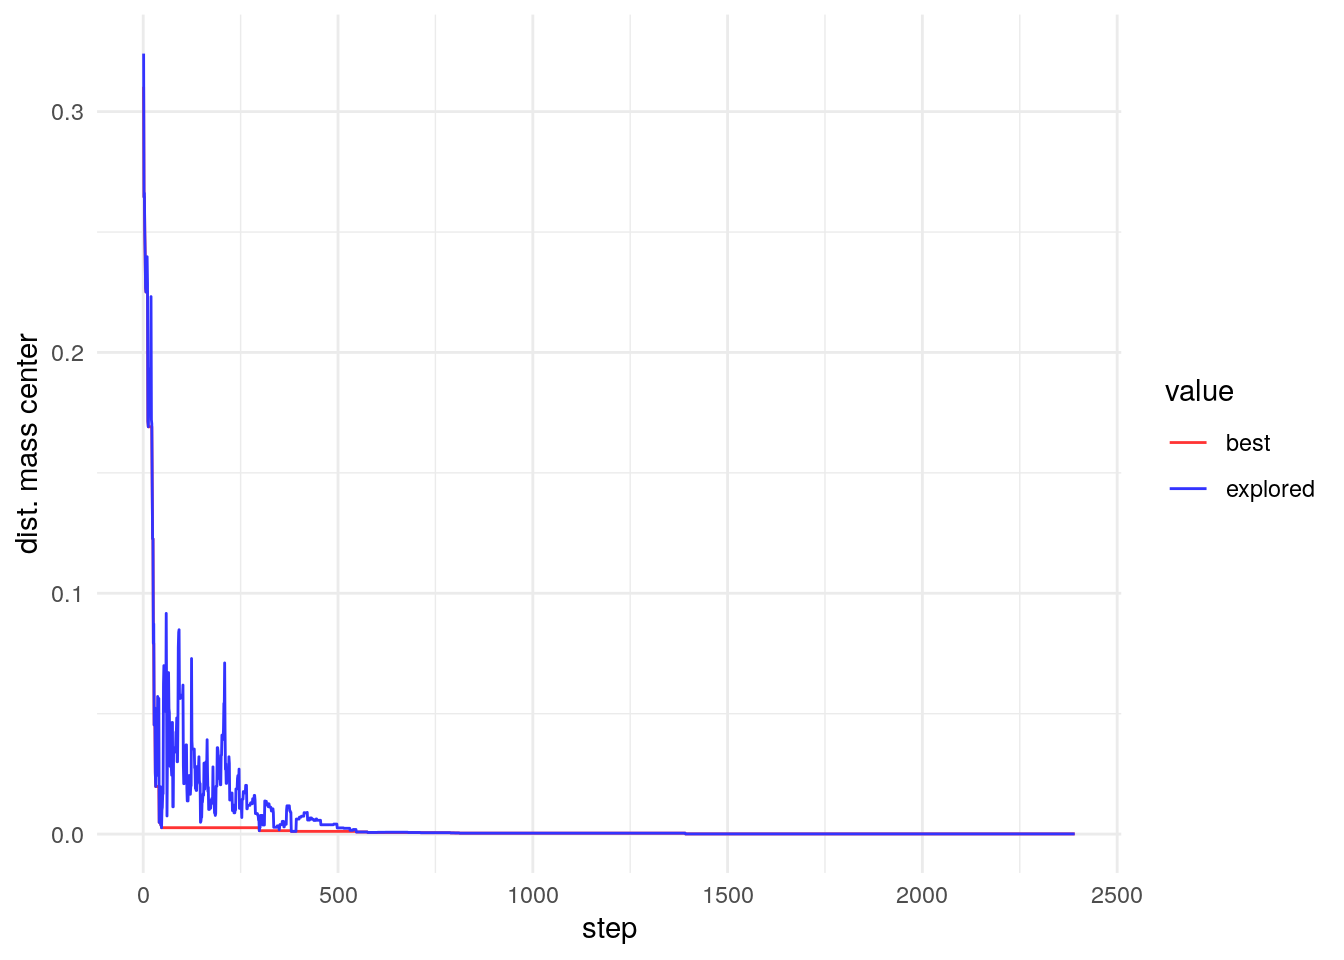
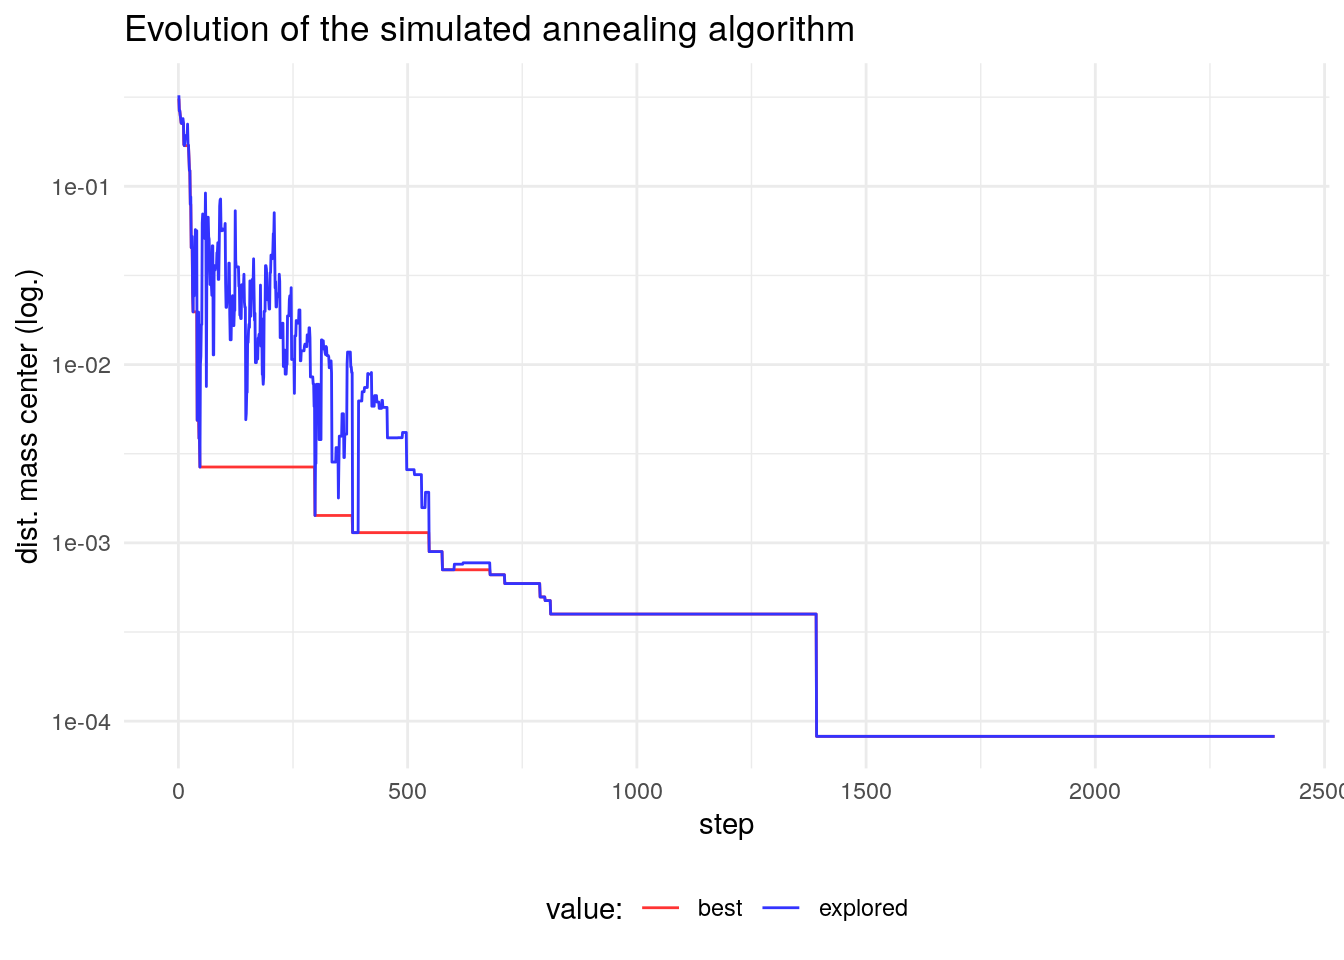
log scale in SA plot

diff --git a/content/blog/2022-01-18-coding-simulated-annealing-in-r/index.html b/content/blog/2022-01-18-coding-simulated-annealing-in-r/index.html
@@ -96,7 +96,6 @@ description: Description for the page
   #estimation of initial temperature
   sol_a &lt;- sapply(1:100, function(x) mass_center(c(1, sample(2:n, n-1))))
   sol_b &lt;- sapply(1:100, function(x) mass_center(c(1, sample(2:n, n-1))))
-  
   delta_f0 &lt;- mean(abs(sol_a - sol_b))
   Tmax &lt;- -delta_f0/log(p0)
   T &lt;- Tmax
@@ -139,7 +138,7 @@ description: Description for the page
   if(eval)
     return(list(sol=bestsol, fit=bestfit, evalfit=evalfit, evalbest=evalbest, temp=temp))
   else
-    return(list(sol=bestsol, obj=bestfit))
+    return(list(sol=bestsol, fit=bestfit))
 }</code></pre>
 <p>Let’s run the function with an instance of size 37. I am setting a seed of the random numbers with <code>set.seed</code> for reproducibility. As candidate solutions <span class="math inline">\(x&#39;\)</span> are defined with a random move, we will get a different solution for each run of the algorithm.</p>
 <pre class="r"><code>set.seed(1313)
@@ -156,10 +155,9 @@ test &lt;- sa_circle(1:37,
 </div>
 <div id="tracking-the-algorithm" class="section level2">
 <h2>Tracking the algorithm</h2>
-<p>I have set <code>eval=TRUE</code> in the run of the algorithm to examine the evolution of the obtention of the solution. Let’s plot the evolution of <span class="math inline">\(f\)</span> and <span class="math inline">\(f^{*}\)</span> as a function of the number of iterations.</p>
+<p>I have set <code>eval=TRUE</code> in the run of the algorithm to examine the evolution of the obtention of the solution. Let’s plot the evolution of <span class="math inline">\(f\)</span> and <span class="math inline">\(f^{*}\)</span> as a function of the number of iterations. I have set a logarithmic scale in the horizontal axis, as changes in scale of the fitness function occur after the first iterations.</p>
 <p><img src="{{< blogdown/postref >}}index_files/figure-html/unnamed-chunk-9-1.png" width="100%" style="display: block; margin: auto;" /></p>
-<p>The plot shows that the algorithm is accepting values of <span class="math inline">\(f&#39;\)</span> with a smaller gap from <span class="math inline">\(f\)</span> as the number of iterations increases. If we zoom the first iterations, we can see how the algorithm is accepting values of <span class="math inline">\(f&#39;\)</span> worse than <span class="math inline">\(f\)</span> to increase the exploration of the solution space.</p>
-<p><img src="{{< blogdown/postref >}}index_files/figure-html/unnamed-chunk-10-1.png" width="100%" style="display: block; margin: auto;" /></p>
+<p>The plot shows that the algorithm is accepting values of <span class="math inline">\(f&#39;\)</span> with a smaller gap from <span class="math inline">\(f\)</span> as the number of iterations increases. The simulated annealing emphasizes exploration in the first iterations, and exploitation or refinement of the solution in the last iterations.</p>
 </div>
 <div id="references" class="section level2">
 <h2>References</h2>
